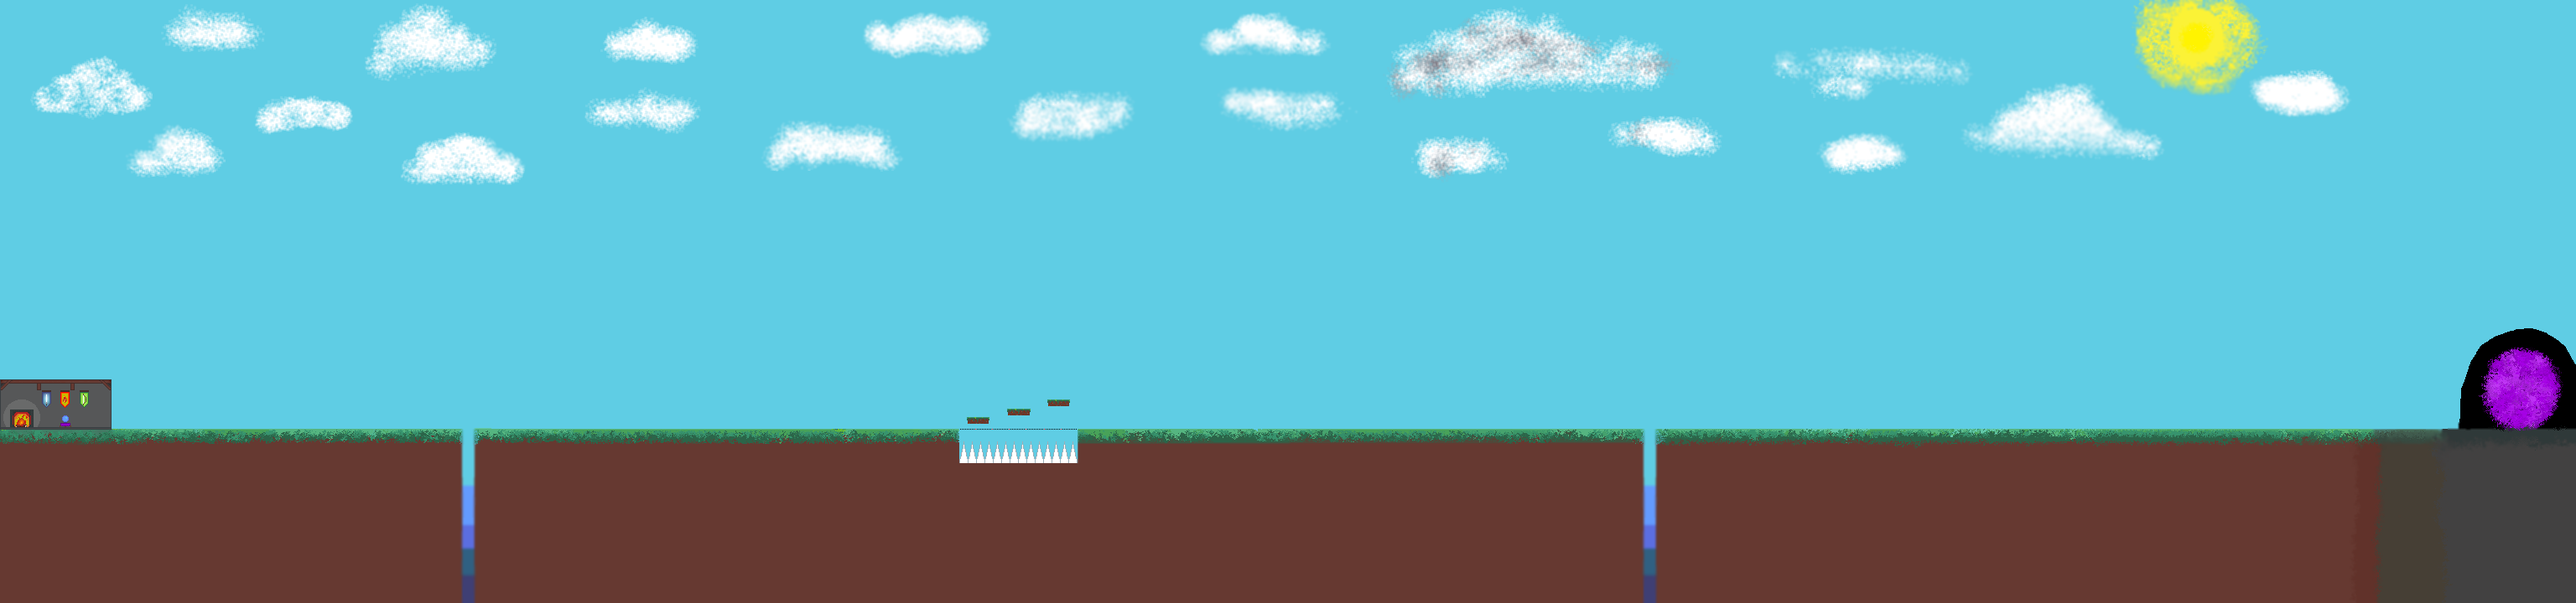
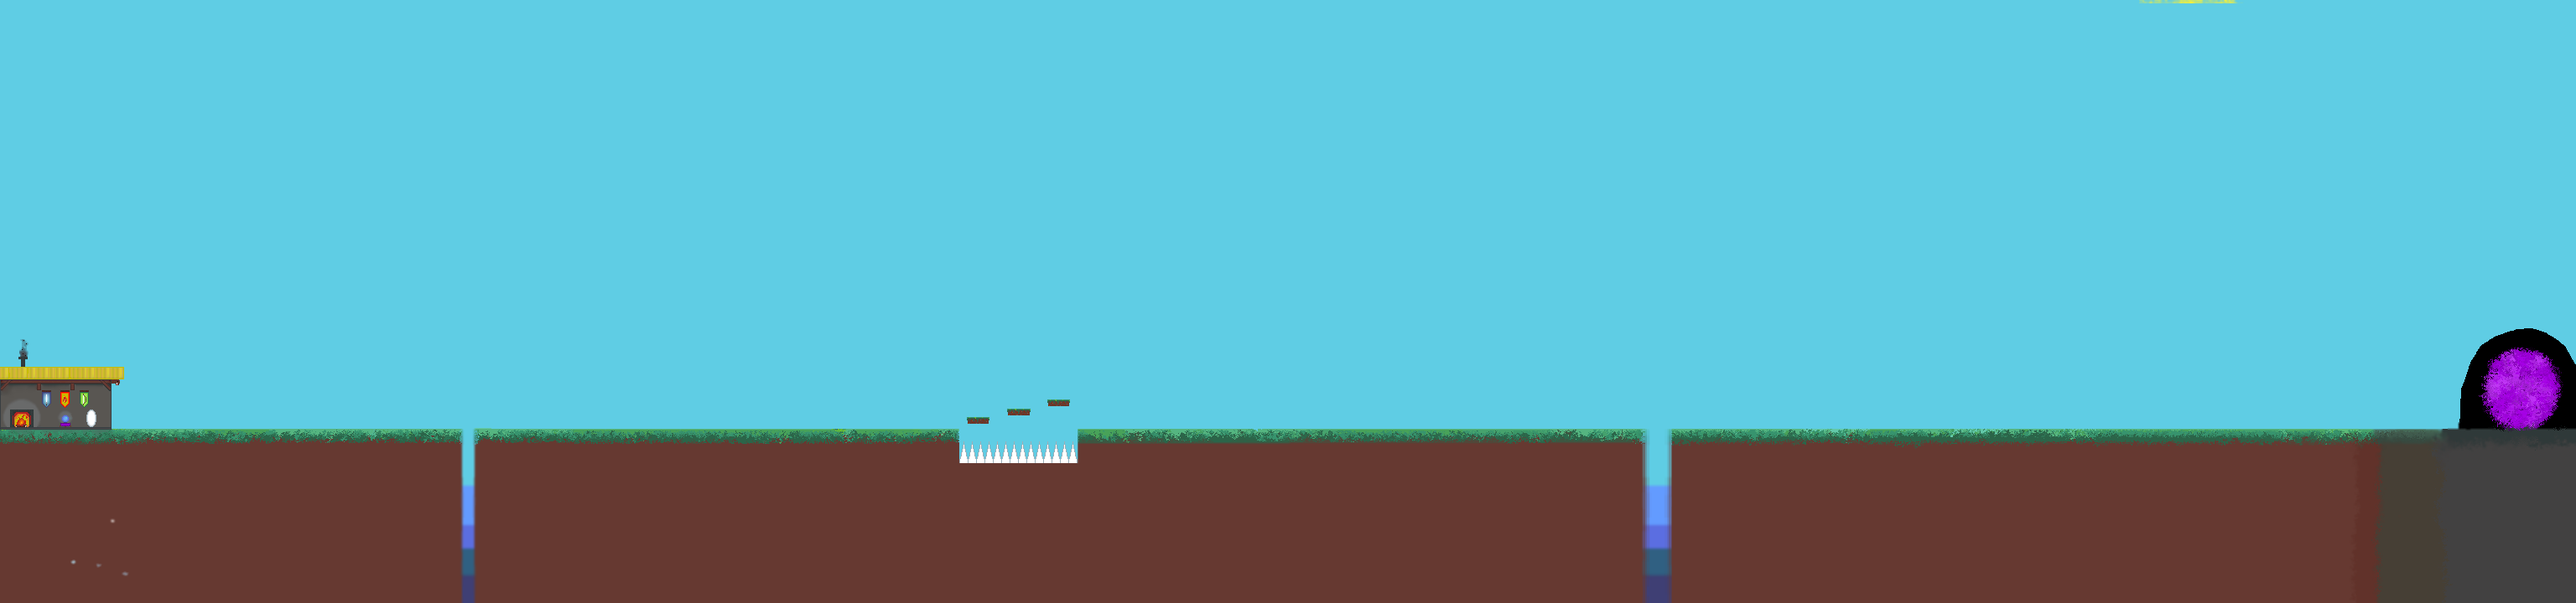
Немного изменил титры и карту первого уровня. Сделал так, чтобы скорость облаков не менялась при движении карты.

diff --git a/main.py b/main.py
@@ -68,16 +68,16 @@ class Cloud(pygame.sprite.Sprite):
         super().__init__(clouds, all_sprites)
         self.image = random.choice(CLOUD_IMGS)
         self.rect = self.image.get_rect()
-        self.rect.x = random.choice([6144, -self.image.get_width()])
+        self.rect.x = random.choice([now_level.rect.x - self.rect.width, now_level.rect.x + 6144])
         self.rect.y = random.randint(0, 150)
-        self.vx = random.choice([-1, 1])
+        self.vx = random.choice([-2, -1, 1, 2])
 
     def update(self):
         """Обновление координат облака."""
-        if self.rect.x < -self.image.get_width() or self.rect.x > 6144:
+        if self.rect.x < now_level.rect.x - self.rect.width or self.rect.x > 6144:
             self.kill()
         else:
-            self.rect.x += self.vx
+            self.rect.x += self.vx - now_level.diff
 
 
 class Level(pygame.sprite.Sprite):
@@ -87,6 +87,7 @@ class Level(pygame.sprite.Sprite):
         """Инициализация уровня."""
         super().__init__(level, all_sprites)
         self.image = image
+        self.diff = 0
         self.rect = self.image.get_rect()
         self.rect.x, self.rect.y = 0, -500
         self.enemies = enemies
@@ -95,7 +96,10 @@ class Level(pygame.sprite.Sprite):
     def update(self):
         """Обновление всех спрайтов уровня."""
         if 625 <= hero.x <= 5489:
+            self.diff = hero.x - hero.rect.x + self.rect.x
             self.rect.x = -(hero.x - hero.rect.x)
+        else:
+            self.diff = 0
 
         for pl in self.platforms:
             pl.rect.x = pl.pos0[0] + self.rect.x
@@ -261,8 +265,8 @@ l_ch_screen.blit(LVL_CH_TITLE, ((WIN_WIDTH - LVL_CH_TITLE.get_width()) // 2, 5))
 
 # Уровень.
 lvl_sc = pygame.Surface((WIN_WIDTH, WIN_HEIGHT))
-l_num = None
 level_x = 0
+now_level = None
 LEVELS = [Level(pygame.transform.scale(load_image('level_1.png'), (6144, 1440)), [],
                 [Platform(2306, 496), Platform(0, 0), Platform(0, 0)])]
 ticks = 0
@@ -354,7 +358,7 @@ while running:
                 if event.type == pygame.MOUSEBUTTONUP and event.button == 1 and btn.rect.collidepoint(event.pos):
                     btn_sound.play()
                     if btn.title == 'Уровень 1':
-                        l_num = 1
+                        now_level = LEVELS[0]
                         now_screen = LVL
                     elif btn.title == 'Уровень 2':
                         pass
